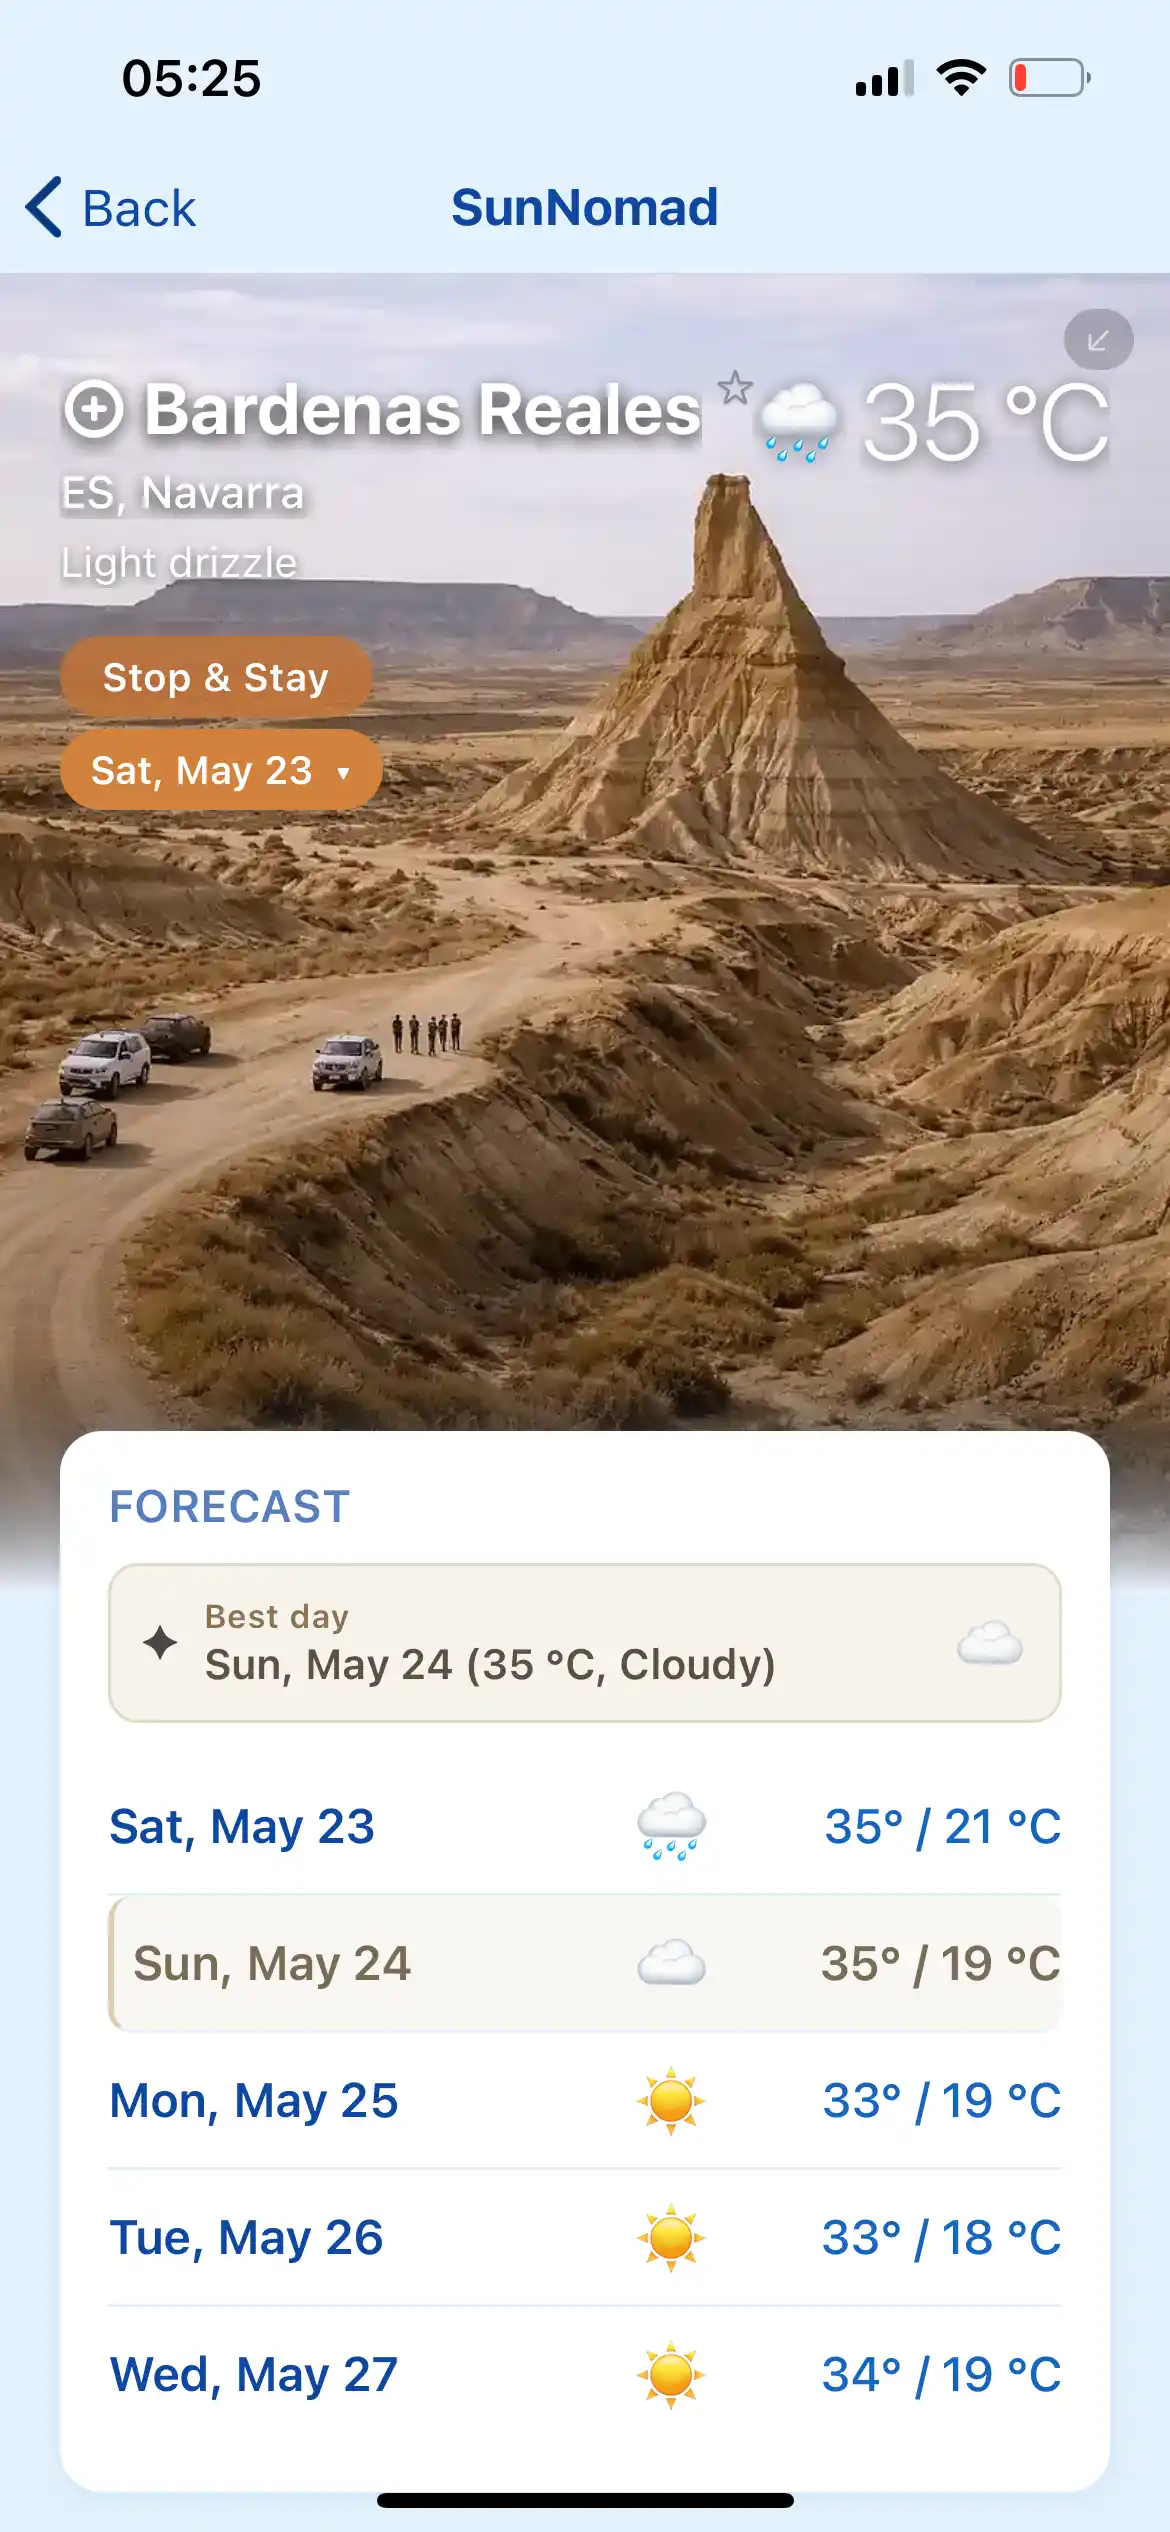
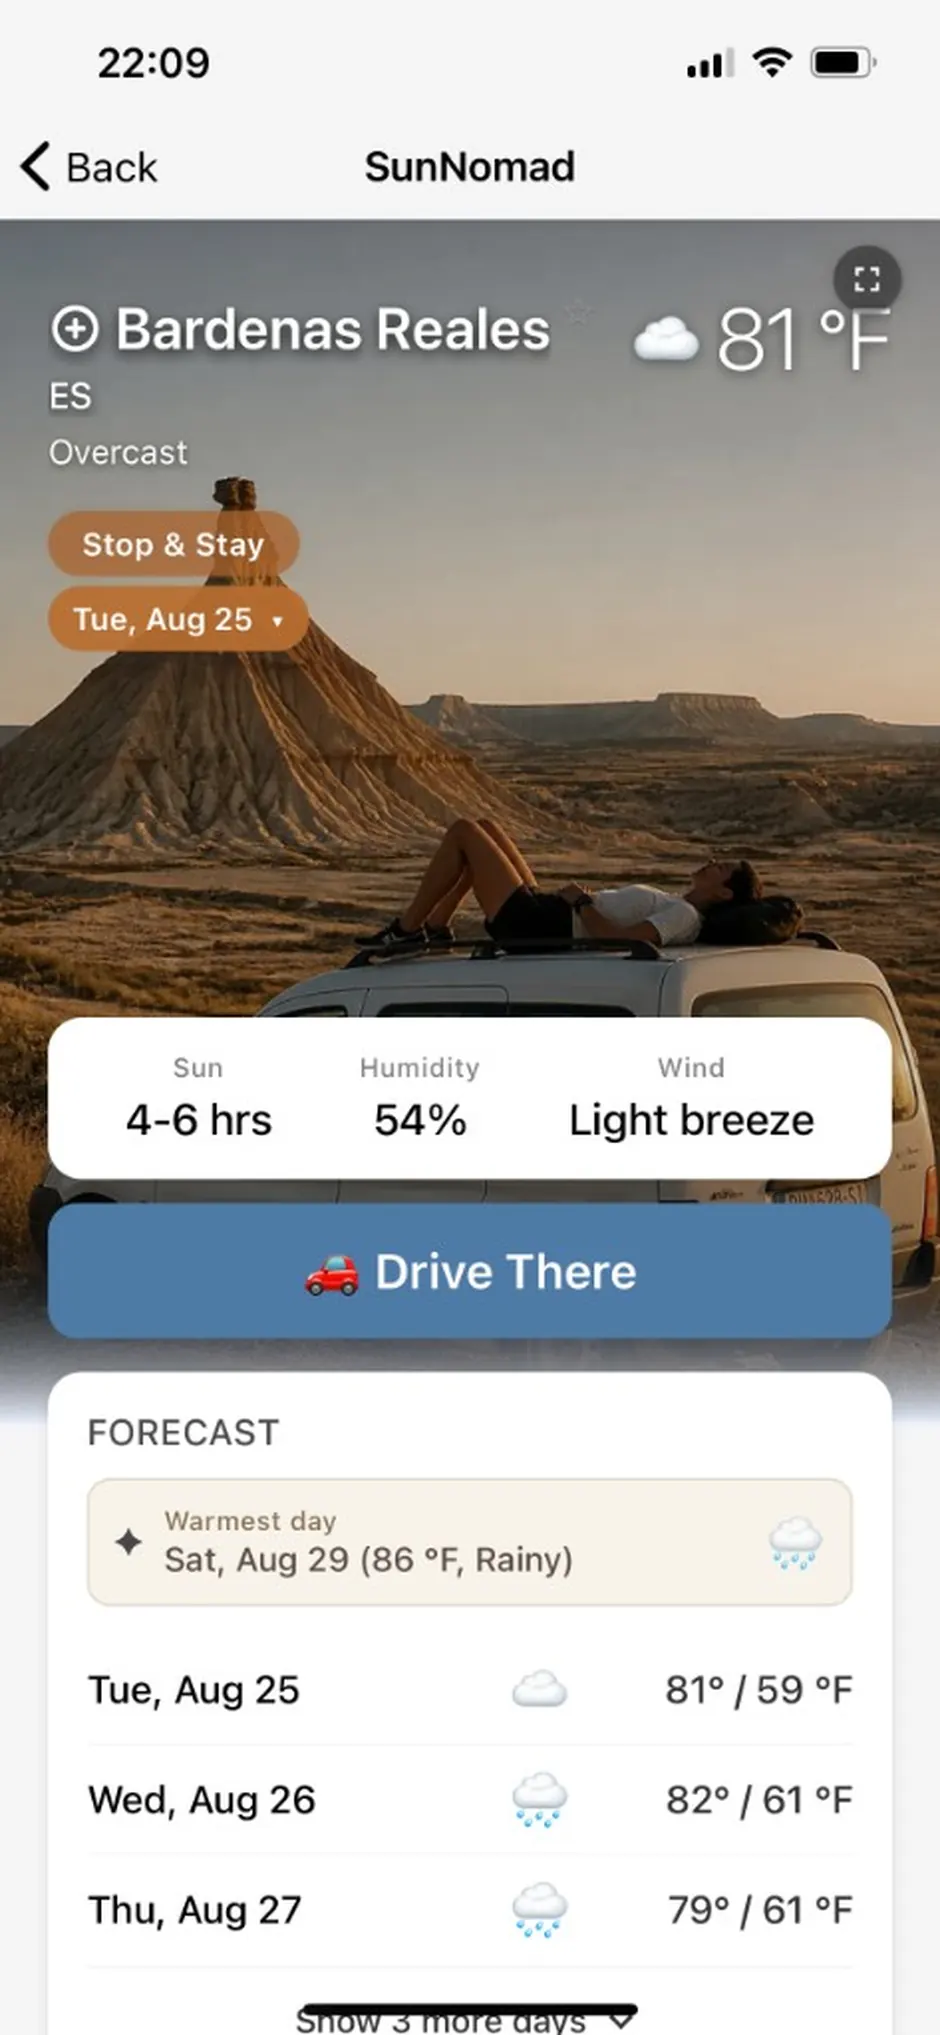
Replace Bardenas Reales screenshot on homepage

diff --git a/index.html b/index.html
@@ -145,7 +145,7 @@
         <p class="ss-label">The World Looks Better in the Sun</p>
         <div class="ss-grid ss-editorial">
           <div class="ss-phone"><div class="ss-screen"><img src="assets/malaga_grafiti.webp" alt="Málaga" loading="lazy"></div></div>
-          <div class="ss-phone"><div class="ss-screen"><img src="assets/bardenas.webp" alt="Bardenas Reales" loading="lazy"></div></div>
+          <div class="ss-phone"><div class="ss-screen"><img src="assets/bardenas.webp" alt="SunNomad — Bardenas Reales" loading="lazy"></div></div>
           <div class="ss-phone"><div class="ss-screen"><img src="assets/pacific_coast_highway.webp" alt="SunNomad — Pacific Coast Highway" loading="lazy"></div></div>
         </div>
         <p class="ss-label">From Corsica to Temple Bar</p>
